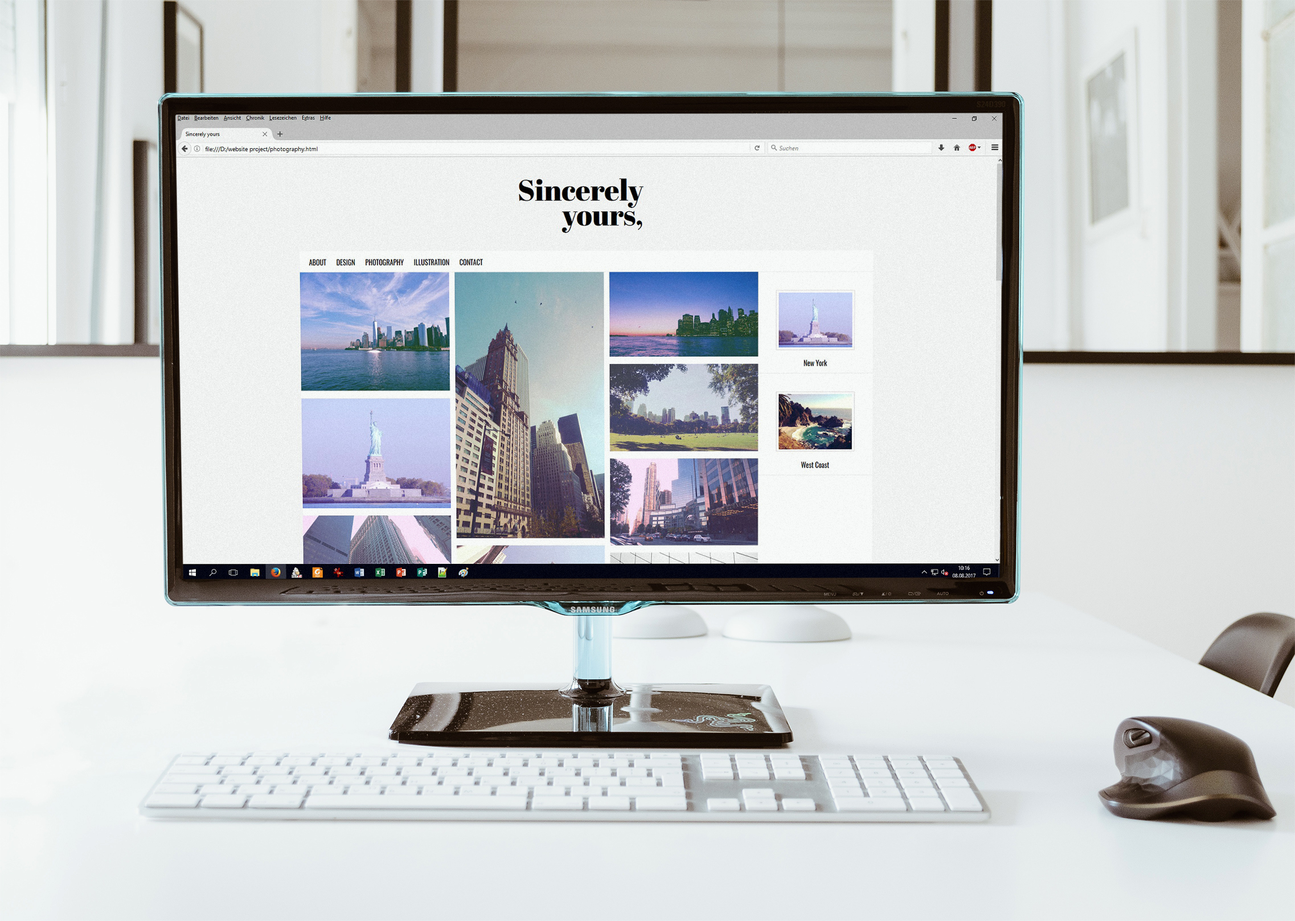
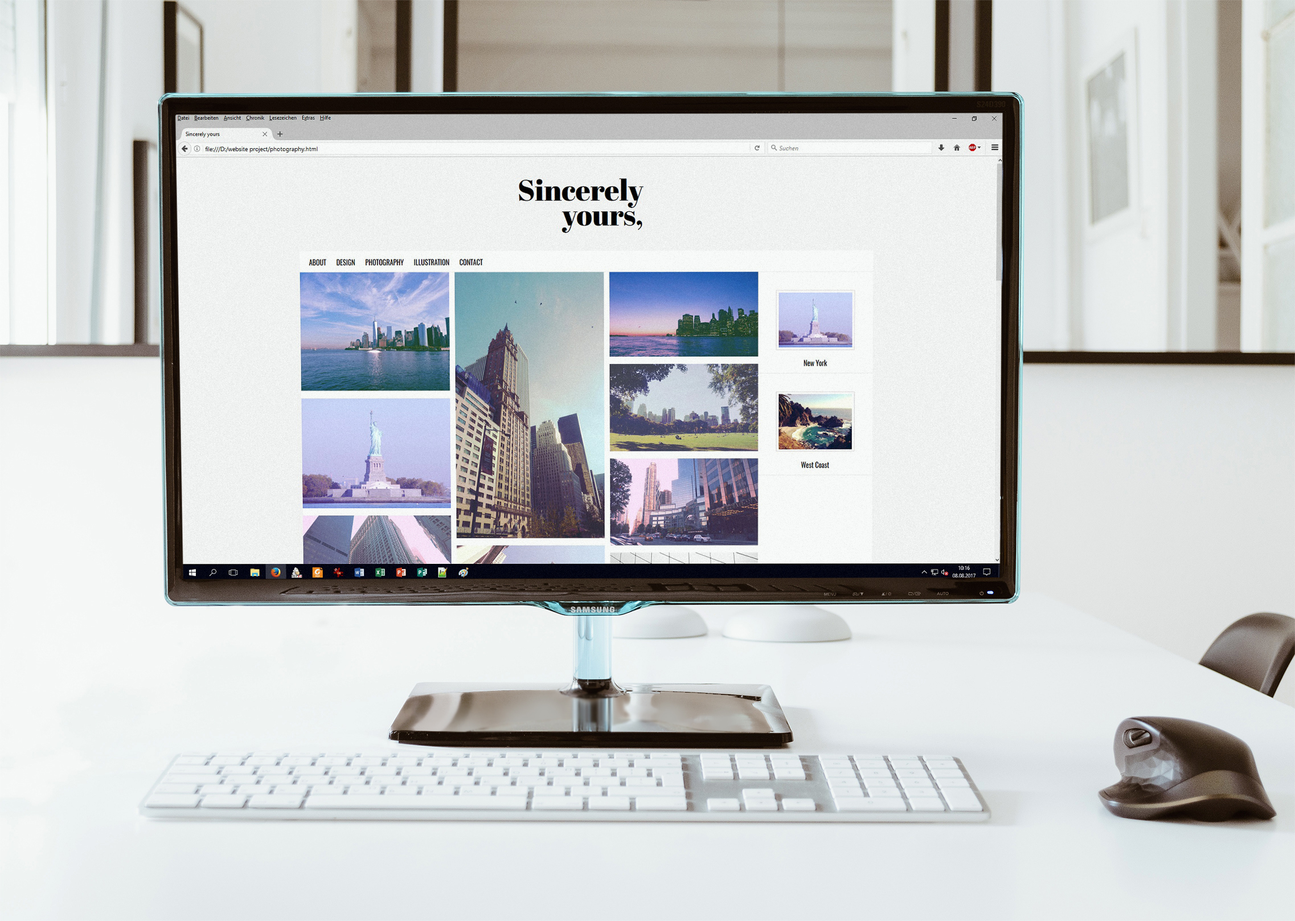
description changes

Changed region(s): [[0.281, 0.7421, 0.5932, 0.804]]

diff --git a/webdesign.html b/webdesign.html
@@ -59,11 +59,11 @@
 				<img class="gallery-start" src="images/design/Webdesign/sincerelyyoursmockup.jpg" alt="Sincerely yours, coded and live portfolio page">
 				<div class="sidetext">
 					<h3>Sincerely yours,</h3>
-					<p>This website is an fun experiment, during which I applied the HTML, CSS and Javascript skills I picked up, and to use this site as a portfolio to show potential employers.
+					<p>This website is an fun experiment, during which I applied the HTML, CSS and Javascript skills I picked up, and to use this site as a portfolio to show potential employers.</p>
 					
-					Besides the basic HTML/CSS to create the basic layout I also implemented some Javascript to connect the gallery overlay to the pictures and the corresponding side text. Javascript was also used to make pictures appear when scrolling to lessen the toll on the bandwidth and to not ambush data users with dozens of photographs at once.
+					<p>Besides the basic HTML/CSS to create the basic layout I also implemented some Javascript to connect the gallery overlay to the pictures and the corresponding side text. Javascript was also used to make pictures appear when scrolling to lessen the toll on the bandwidth and to not ambush data users with dozens of photographs at once.</p>
 					
-					Responsive breakpoints have been implemented, to allow the website to be viewed on mobile devices such as tablets and smart phones.</p>
+					<p>Responsive breakpoints have been implemented, to allow the website to be viewed on mobile devices such as tablets and smart phones.</p>
 				</div>
 			</div>
 			

diff --git a/js/scripts.js b/js/scripts.js
@@ -18,16 +18,5 @@ $(document).ready(function() {
 	});
 	$("img").click(function(event) {
 		console.log(event.target);
-		
 	});
-	$("img.lazy").scroll(function(sporty) {
-		console.log(sporty.target);
-	});
-    $("img.lazy").lazyload({
-        event : "sporty",
-		effect : "fadeIn"
-    });
-    var timeout = setTimeout(function() {
-        $("img.lazy").trigger("sporty")
-    }, 5000);
 })

diff --git a/design.html b/design.html
@@ -56,7 +56,7 @@
 		
 			
 			<div>
-			<img class="gallery-start lazy" src="images/design/Hochzeitszeitung01.jpg" alt="Wedding newspaper" >
+			<img class="gallery-start" src="images/design/Hochzeitszeitung01.jpg" alt="Wedding newspaper">
 				<div class="sidetext">
 				Wedding newspaper
 				</div>

diff --git a/css/style.css b/css/style.css
@@ -80,7 +80,6 @@ aside.introduction{
 }
 
 .gallery img{
-	display:inline-block;
 	margin: 0 0 1em;
 	width:100%;
 	height:auto;
@@ -135,6 +134,7 @@ h2 {
 }
 
 h3 {
+	margin-left:14.5%;
 	font-family: 'Abril Fatface', cursive;
 	font-weight:normal;
 	font-size:20pt;
